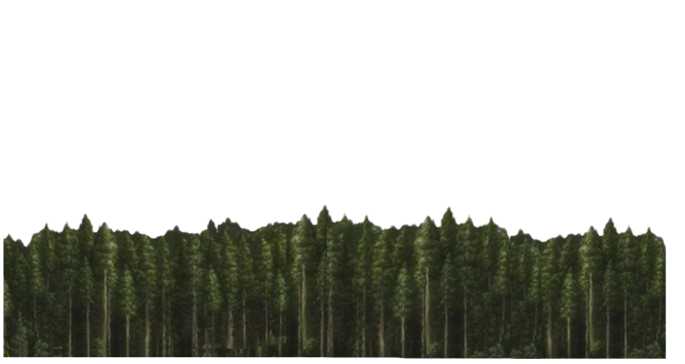
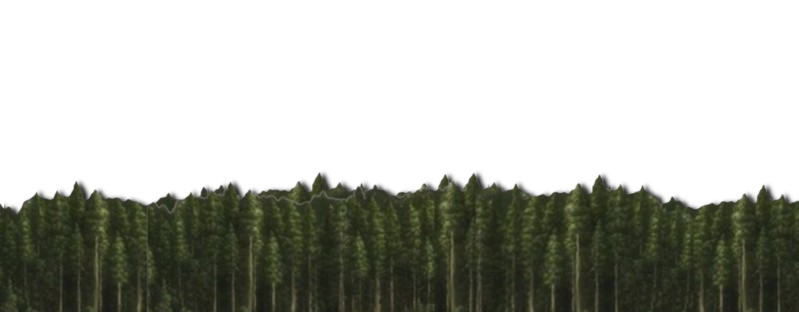
qwertyu

Changed region(s): [[0.0, 0.5481, 1.0, 1.0]]

diff --git a/Dino/MainPage.xaml b/Dino/MainPage.xaml
@@ -19,11 +19,28 @@
     </HorizontalStackLayout>
 
     <HorizontalStackLayout x:Name="terceiraimg">
-       <Image Source ="arvore.png"/>
-       <Image Source ="arvore.png"/>
-       <Image Source ="arvore.png"/>
+       <Image Source ="ar.png"
+              HeightRequest="380"
+              Margin="0,60,0,0"/>
+
+       <Image Source ="ar.png"
+              HeightRequest="380"
+              Margin="0,60,30,0"/>
+
+       <Image Source ="ar.png"
+              HeightRequest="380"
+              Margin="0,60,0,0"/>
     </HorizontalStackLayout>
 
+    <HorizontalStackLayout x:Name="quartaimg">
+       <Image Source ="chaoo.png"
+              Aspect="Fill"
+              VerticalOptions="Center"/>
+       <Image Source ="chaoo.png"/>
+       <Image Source ="chaoo.png"/>
+    </HorizontalStackLayout>
+
+  
   </Grid>
 
  

diff --git a/Dino/MainPage.xaml.cs b/Dino/MainPage.xaml.cs
@@ -7,8 +7,5 @@ public partial class MainPage : ContentPage
 	public MainPage()
 	{
 		InitializeComponent();
-	}
-
-
+	}//
 }
-
